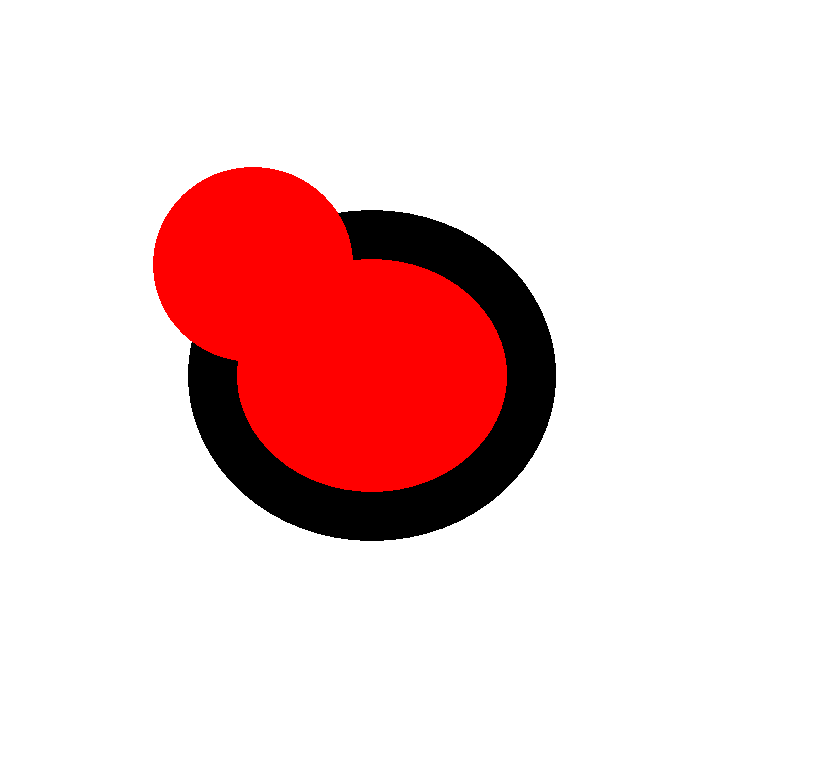
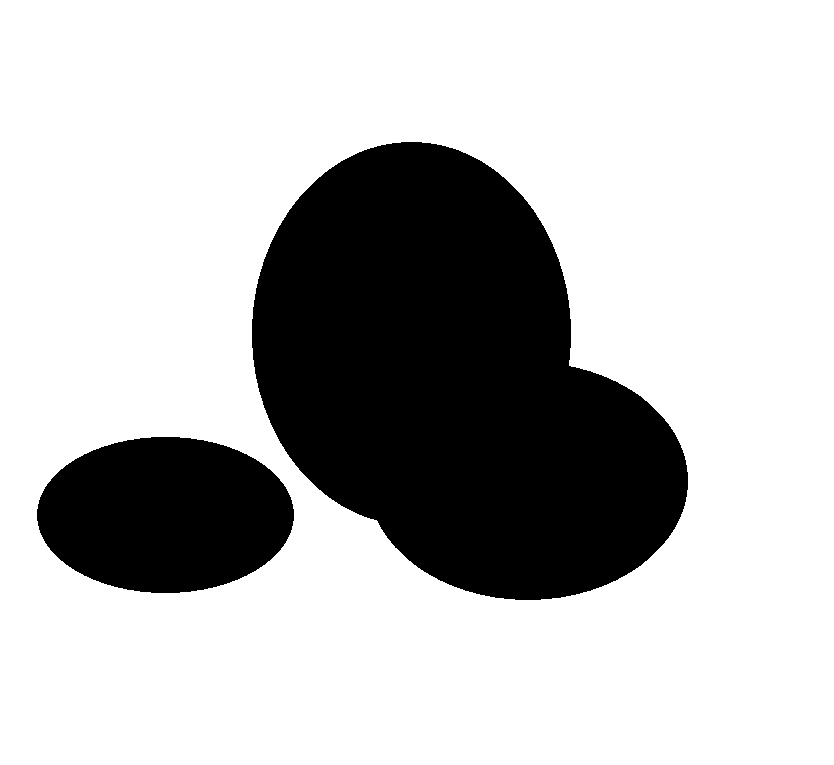
Update Save

Changed region(s): [[0.0312, 0.1804, 0.8417, 0.7817]]

diff --git a/5th semester university/Lab 1/Lab1/Lab1.cpp b/5th semester university/Lab 1/Lab1/Lab1.cpp
@@ -571,25 +571,25 @@ LRESULT CALLBACK WndProc(HWND hwnd, UINT msg, WPARAM wParam, LPARAM lParam)
 		}
 		if (LOWORD(wParam) == 104)
 		{
-			HWND desktop = GetDesktopWindow();
 			HDC screenDC = GetDC(hwndMain);
+			RECT windowRect;
+			GetWindowRect(hwndMain, &windowRect);
 
 			HBITMAP hBitmap = CreateCompatibleBitmap(screenDC, PW.Width - 16, PW.Height - 35);
 
 			HDC memDC = CreateCompatibleDC(screenDC);
 			SelectObject(memDC, hBitmap);
-			BitBlt(memDC, 0, 0, PW.Width - 16, PW.Height - 35, screenDC, PW.x1, PW.y1, SRCCOPY);
+			BitBlt(memDC, 0, 0, windowRect.right- windowRect.left+PW.x1, windowRect.bottom - windowRect.top, screenDC, PW.x1, PW.y1, SRCCOPY);
 
 			Gdiplus::Bitmap bitmap(hBitmap, NULL);
 
 			CLSID pngClsid;
-			int rez = GetEncoderClsid(L"image/png", &pngClsid);
+			GetEncoderClsid(L"image/png", &pngClsid);
 
 			bitmap.Save(L"paint.png", &pngClsid, NULL);
 
 			DeleteObject(hBitmap);
 			DeleteDC(memDC);
-			ReleaseDC(desktop, screenDC);
 		}
 		break;
 	}
